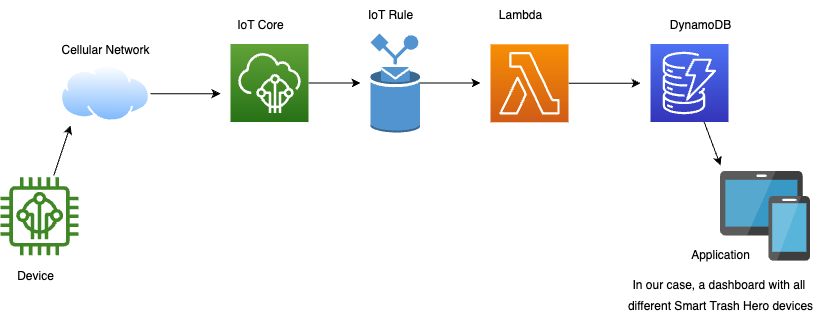
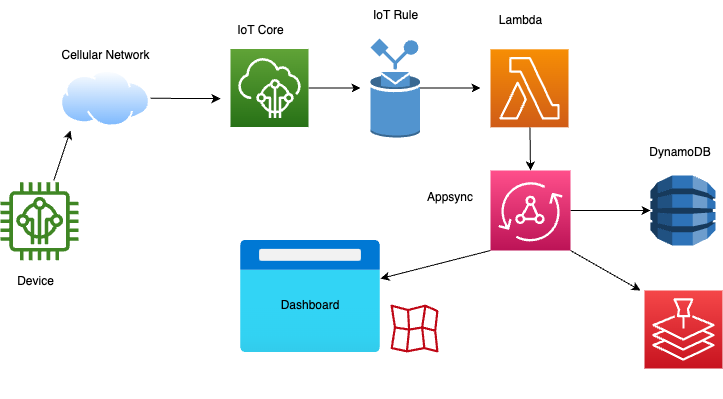
cognito identity pool via cdk

diff --git a/backend/lib/backend-stack.ts b/backend/lib/backend-stack.ts
@@ -1,4 +1,5 @@
 import * as cdk from "aws-cdk-lib";
+import { Stack } from "aws-cdk-lib";
 import { Construct } from "constructs";
 import { Lambda } from "./lambda";
 import { IotSql, TopicRule } from "@aws-cdk/aws-iot-alpha";
@@ -7,7 +8,7 @@ import { CloudWatchLogsAction, LambdaFunctionAction } from "@aws-cdk/aws-iot-act
 import { AppSyncConstruct } from "./appsync-construct";
 import { AuthConstruct } from "./auth-construct";
 import { aws_location as location } from "aws-cdk-lib";
-import { PolicyStatement } from "aws-cdk-lib/aws-iam";
+import { Policy, PolicyStatement } from "aws-cdk-lib/aws-iam";
 
 export class BackendStack extends cdk.Stack {
   constructor(scope: Construct, id: string, props?: cdk.StackProps) {
@@ -27,12 +28,37 @@ export class BackendStack extends cdk.Stack {
       },
     });
 
-    //create IoT Rule
+    const cfnMap = new location.CfnMap(this, `${application_name}_map`, {
+      configuration: {
+        style: "VectorEsriStreets",
+      },
+      mapName: `${application_name}_map`,
+    });
 
     const cfnRouteCalculator = new location.CfnRouteCalculator(this, `${application_name}_route_calculator`, {
       calculatorName: `${application_name}_route_calculator`,
       dataSource: "Esri",
     });
+
+    authConstruct.authRole.attachInlinePolicy(
+      new Policy(this, "locationService", {
+        statements: [
+          new PolicyStatement({
+            actions: ["geo:GetMapGlyphs", "geo:GetMapSprites", "geo:GetMapStyleDescriptor", "geo:GetMapTile"],
+            resources: [`arn:aws:geo:${cdk.Stack.of(this).region}:${Stack.of(this).account}:map/${cfnMap.mapName}`],
+          }),
+
+          new PolicyStatement({
+            actions: ["geo:CalculateRoute"],
+            resources: [
+              `arn:aws:geo:${Stack.of(this).region}:${Stack.of(this).account}:route-calculator/${
+                cfnRouteCalculator.calculatorName
+              }`,
+            ],
+          }),
+        ],
+      })
+    );
 
     // CloudWatch Role for IoT Core error logging
     const logGroup = new LogGroup(this, "ErrorLogGroup", {
@@ -71,18 +97,12 @@ export class BackendStack extends cdk.Stack {
       },
     });
 
+    //create IoT Rule
     new TopicRule(this, `${application_name}_topic_rule`, {
       topicRuleName: `${application_name}_topic_rule`,
       sql: IotSql.fromStringAsVer20160323(`SELECT topic(2) as device_id, * FROM 'smarttrash/#'`),
       actions: [new LambdaFunctionAction(ruleActionLambda.lambda)],
       errorAction: new CloudWatchLogsAction(logGroup),
-    });
-
-    const cfnMap = new location.CfnMap(this, `${application_name}_map`, {
-      configuration: {
-        style: "VectorEsriStreets",
-      },
-      mapName: `${application_name}_map`,
     });
   }
 }

diff --git a/backend/lib/auth-construct.ts b/backend/lib/auth-construct.ts
@@ -8,6 +8,7 @@ interface AuthConstructProps extends StackProps {}
 
 export class AuthConstruct extends Construct {
   unauthRole: IRole;
+  authRole: IRole;
 
   constructor(scope: Construct, id: string, _props: AuthConstructProps) {
     super(scope, id);
@@ -35,10 +36,10 @@ export class AuthConstruct extends Construct {
 
     const identityPool = new IdentityPool(this, "IdentityPool", {
       authenticationProviders: {
-        userPools: [new UserPoolAuthenticationProvider({ userPool })],
+        userPools: [new UserPoolAuthenticationProvider({ userPool, userPoolClient })],
       },
     });
-    const { unauthenticatedRole, identityPoolId } = identityPool;
+    const { unauthenticatedRole, authenticatedRole, identityPoolId } = identityPool;
 
     NagSuppressions.addResourceSuppressions(identityPool, [
       {
@@ -46,33 +47,7 @@ export class AuthConstruct extends Construct {
         reason: "Application uses unauthenticated access (i.e. guest) only, so this setting is needed.",
       },
     ]);
-
-    identityPool.authenticatedRole.attachInlinePolicy(
-      new Policy(this, "locationService", {
-        statements: [
-          new PolicyStatement({
-            actions: ["geo:GetMapGlyphs", "geo:GetMapSprites", "geo:GetMapStyleDescriptor", "geo:GetMapTile"],
-            resources: [`arn:aws:geo:${Stack.of(this).region}:${Stack.of(this).account}:map/${application_name}Map`],
-          }),
-          new PolicyStatement({
-            actions: ["geo:ListGeofences", "geo:BatchPutGeofence", "geo:BatchDeleteGeofence"],
-            resources: [
-              `arn:aws:geo:${Stack.of(this).region}:${
-                Stack.of(this).account
-              }:geofence-collection/${application_name}GeofenceCollection`,
-            ],
-          }),
-          new PolicyStatement({
-            actions: ["geo:CalculateRoute"],
-            resources: [
-              `arn:aws:geo:${Stack.of(this).region}:${
-                Stack.of(this).account
-              }:route-calculator/${application_name}RouteCalculator`,
-            ],
-          }),
-        ],
-      })
-    );
+    this.authRole = authenticatedRole;
 
     new CfnOutput(this, "IdentityPoolId", {
       value: identityPoolId,
@@ -85,5 +60,9 @@ export class AuthConstruct extends Construct {
     new CfnOutput(this, "AppClientId", {
       value: userPoolClient.userPoolClientId,
     });
+
+    // new CfnOutput(this, "AppClientId", {
+    //   value: identityPool.identityPoolName,
+    // });
   }
 }
